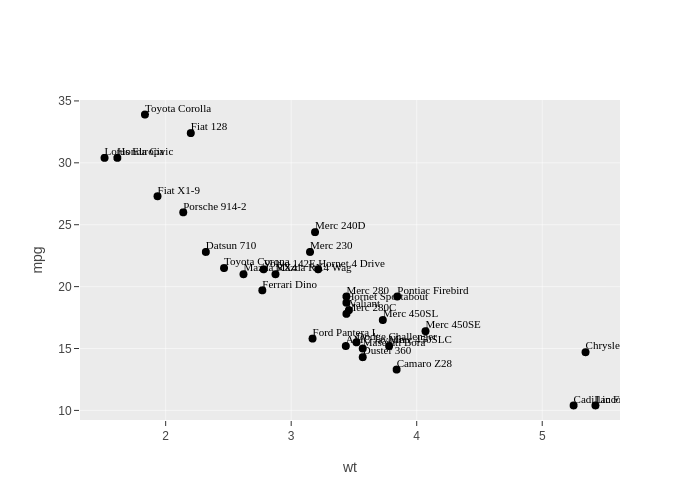
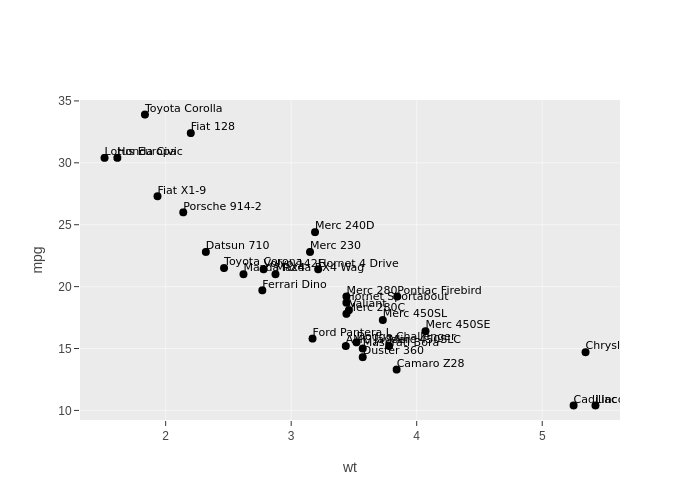
more examples of geom_text()

diff --git a/README.md b/README.md
@@ -59,7 +59,7 @@ Example exported image files:
     <img src="https://raw.githubusercontent.com/stphnlyd/perl5-Chart-GGPlot/master/examples/scale_viridis_02_01.png" alt="viridis color scale" width="40%">
     <img src="https://raw.githubusercontent.com/stphnlyd/perl5-Chart-GGPlot/master/examples/geom_polygon_01_01.png" alt="polygon" width="40%">
     <img src="https://raw.githubusercontent.com/stphnlyd/perl5-Chart-GGPlot/master/examples/geom_raster_02_01.png" alt="heatmap" width="40%">
-    <img src="https://raw.githubusercontent.com/stphnlyd/perl5-Chart-GGPlot/master/examples/geom_text_01_03.png" alt="text" width="40%">
+    <img src="https://raw.githubusercontent.com/stphnlyd/perl5-Chart-GGPlot/master/examples/geom_text_01_05.png" alt="text" width="40%">
     <img src="https://raw.githubusercontent.com/stphnlyd/perl5-Chart-GGPlot/master/examples/geom_bar_01_05.png" alt="bar" width="40%">
     <img src="https://raw.githubusercontent.com/stphnlyd/perl5-Chart-GGPlot/master/examples/theme_01_06.png" alt="theme 'minimal'" width="40%">
     </p>
